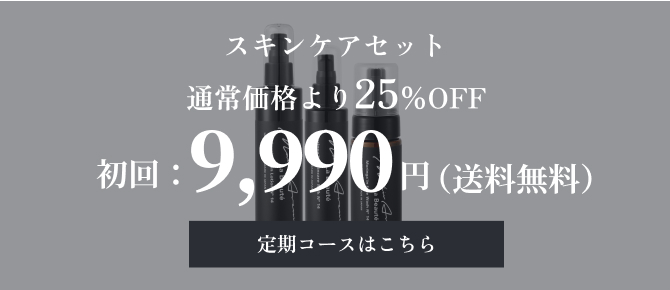
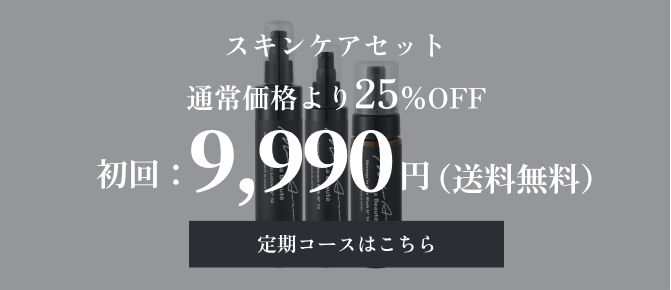
16時作業分

diff --git a/index.html b/index.html
@@ -70,39 +70,79 @@
 
 
       </div>
-
-
-
     </section>
 
     <section class="price">
       <h2 class="price__title title">SET PRICE(定期販売コース)</h2>
-      <div>
-        <h3>ボディケアセット</h3>
-        <div class=""><img src="./img/price_img01.jpg" alt=""></div>
-        <p><a href=""></a></p>
+      <div class="price__list">
+        <h3 class="price__list-title">ボディケアセット</h3>
+        <div class="price__list-img"><img src="./img/price_img01.jpg" alt="ボディケアセット"></div>
+        <div><a href="">商品詳細／ご購入はこちら</a></div>
       </div>
 
       <div>
         <h3>スキンケアセット</h3>
-        <div class=""><img src="./img/price_img02.jpg" alt=""></div>
-        <p><a href=""></a></p>
+        <div class=""><img src="./img/price_img02.jpg" alt="スキンケアセット"></div>
+        <div><a href="">商品詳細／ご購入はこちら</a></div>
+        <div class="accordion">
+          <div class="accordion-container">
+            <div class="accordion-item">
+              <h3 class="accordion-title js-accordion-title">
+                単品はこちら
+              </h3>
+              <!--/.accordion-title-->
+              <div class="accordion-content">
+
+
+
+                <p>コンテンツが入ります。</p>
+              </div>
+              <!--/.accordion-content-->
+            </div>
+            <!-- /.accordion-item -->
+
+          </div>
+          <!-- /.accordion-container -->
+        </div>
+        <!-- .accordion -->
+        <div>
+          <img src="" alt="">
+          <p>シャンプー<br>4,300円(税込)
+          </p>
+        </div>
+
       </div>
-    </section>
+  </div>
+  </section>
 
-    <section class="faq">
-      <h2 class="faq__title title">FAQ</h2>
-      <div>
-        <p></p>
-        <p></p>
+  <section class="faq">
+    <h2 class="faq__title title">FAQ</h2>
+    <div class="faq__wrap">
+      <div class="accordion">
+        <div class="accordion-container">
+          <div class="accordion-item">
+            <h3 class="accordion-title js-accordion-title">
+              アコーディオンタイトル1
+            </h3>
+            <!--/.accordion-title-->
+            <div class="accordion-content">
+              <p>コンテンツが入ります。</p>
+            </div>
+            <!--/.accordion-content-->
+          </div>
+          <!-- /.accordion-item -->
+        </div>
+        <!-- /.accordion-container -->
       </div>
+      <!-- .accordion -->
+    </div>
 
-    </section>
+  </section>
 
-    <section class="contract">
-      <h2 class="contract__title title">解約・配送サイクルの変更について</h2>
-      <div class="contract__img"><img src="./img/contract_img01.png" alt=""></div>
-    </section>
+  <section class="contract">
+    <h2 class="contract__title title">解約・配送サイクルの変更について</h2>
+    <div class="contract__img"><img src="./img/contract_img01.png" alt=""></div>
+  </section>
 
   </div>
 

diff --git a/css/style.scss b/css/style.scss
@@ -54,6 +54,7 @@ h3 {
 }
 
 .set {
+  background-color: rgba(43, 46, 53, 0.5);
   &__img {
     // background-color: #2b2e35;
     // opacity: 0.5;
@@ -79,10 +80,23 @@ h3 {
   &__title {
     margin-bottom: 48px;
   }
+  &__list {
+    &-title {
+    }
+    &-img {
+      width: 95%;
+      margin: 0 auto;
+    }
+  }
 }
 .faq {
+  background-color: rgba(233, 233, 233, 0.8);
   &__title {
     margin-bottom: 40px;
+  }
+  &__wrap {
+    width: 95%;
+    margin: 0 auto;
   }
 }
 
@@ -99,4 +113,63 @@ h3 {
 .footer {
   margin-top: 115px;
   text-align: center;
+}
+
+.accordion {
+  margin-top: 30px;
+  position: relative;
+}
+.accordion-title {
+  margin-left: auto;
+  margin-right: auto;
+  max-width: 540px;
+  width: 100%;
+  color: #2b2e35;
+  cursor: pointer;
+  font-size: 16px;
+  padding: 10px 20px;
+}
+.accordion-content {
+  width: 100%;
+  display: none;
+  padding: 10px 20px;
+}
+.accordion-content p {
+  font-size: 13px;
+  line-height: 1.5;
+}
+/* タイトルの背景色 */
+.accordion-item .accordion-title {
+  border: 1px solid #2b2e35;
+}
+
+/* コンテンツボックスの枠線 */
+.accordion-item .accordion-content {
+  border: 1px solid #2b2e35;
+}
+/* 矢印 */
+.accordion-title {
+  position: relative;
+}
+.accordion-title::after {
+  // border-right: solid 2px #fff;
+  // border-top: solid 2px #fff;
+  content: "＋";
+  display: block;
+  // height: 14px;
+  font-size: 24px;
+  width: 24px;
+  position: absolute;
+  right: 25px;
+  top: 12%;
+  // transform: rotate(135deg);
+  // transition: transform 0.3s ease-in-out, top 0.3s ease-in-out;
+  width: 8px;
+}
+.accordion-title.open::after {
+  content: "ー";
+  font-size: 24px;
+  // width: 24px;
+  top: 12%;
+  // transform: rotate(-45deg);
 }

diff --git a/css/style.css b/css/style.css
@@ -1,3 +1,4 @@
+@charset "UTF-8";
 body {
   font-size: 16px;
   line-height: 1.5;
@@ -47,6 +48,9 @@ h3 {
   width: 100%;
 }
 
+.set {
+  background-color: rgba(43, 46, 53, 0.5);
+}
 .set__img :hover {
   opacity: 0.7;
   transition: all 0.5s;
@@ -63,9 +67,20 @@ h3 {
 .price__title {
   margin-bottom: 48px;
 }
+.price__list-img {
+  width: 95%;
+  margin: 0 auto;
+}
 
+.faq {
+  background-color: rgba(233, 233, 233, 0.8);
+}
 .faq__title {
   margin-bottom: 40px;
+}
+.faq__wrap {
+  width: 95%;
+  margin: 0 auto;
 }
 
 .contract__title {
@@ -79,4 +94,63 @@ h3 {
 .footer {
   margin-top: 115px;
   text-align: center;
+}
+
+.accordion {
+  margin-top: 30px;
+  position: relative;
+}
+
+.accordion-title {
+  margin-left: auto;
+  margin-right: auto;
+  max-width: 540px;
+  width: 100%;
+  color: #2b2e35;
+  cursor: pointer;
+  font-size: 16px;
+  padding: 10px 20px;
+}
+
+.accordion-content {
+  width: 100%;
+  display: none;
+  padding: 10px 20px;
+}
+
+.accordion-content p {
+  font-size: 13px;
+  line-height: 1.5;
+}
+
+/* タイトルの背景色 */
+.accordion-item .accordion-title {
+  border: 1px solid #2b2e35;
+}
+
+/* コンテンツボックスの枠線 */
+.accordion-item .accordion-content {
+  border: 1px solid #2b2e35;
+}
+
+/* 矢印 */
+.accordion-title {
+  position: relative;
+}
+
+.accordion-title::after {
+  content: "＋";
+  display: block;
+  font-size: 24px;
+  width: 24px;
+  position: absolute;
+  right: 25px;
+  top: 12%;
+  width: 8px;
+}
+
+.accordion-title.open::after {
+  content: "ー";
+  font-size: 24px;
+  top: 12%;
 }/*# sourceMappingURL=style.css.map */

diff --git a/js/script.js b/js/script.js
@@ -28,23 +28,12 @@ $(function () {
 });
 ////////////////
 
-$(".hoge-item .img-box > img").click(function () {
-  var src = $(this).attr("src");
-  var cap = $(this).attr("alt");
-  $(".modal-block").fadeIn().css("display", "flex");
-
-  $("#popup").attr("src", src);
-  $(".caption").text(cap);
-});
-
-$(".modal-block").click(function (e) {
-  // モーダルの外側をクリックした場合にのみモーダルを閉じる
-  if (e.target === this) {
-    $(this).css("display", "none");
-  }
-});
-
-$(".img-section > span").click(function () {
-  // モーダルを閉じるボタンがクリックされた場合にモーダルを閉じる
-  $(".modal-block").css("display", "none");
+$(function () {
+  // タイトルをクリックすると
+  $(".js-accordion-title").on("click", function () {
+    // クリックした次の要素を開閉
+    $(this).next().slideToggle(100);
+    // タイトルにopenクラスを付け外しして矢印の向きを変更
+    $(this).toggleClass("open", 100);
+  });
 });
